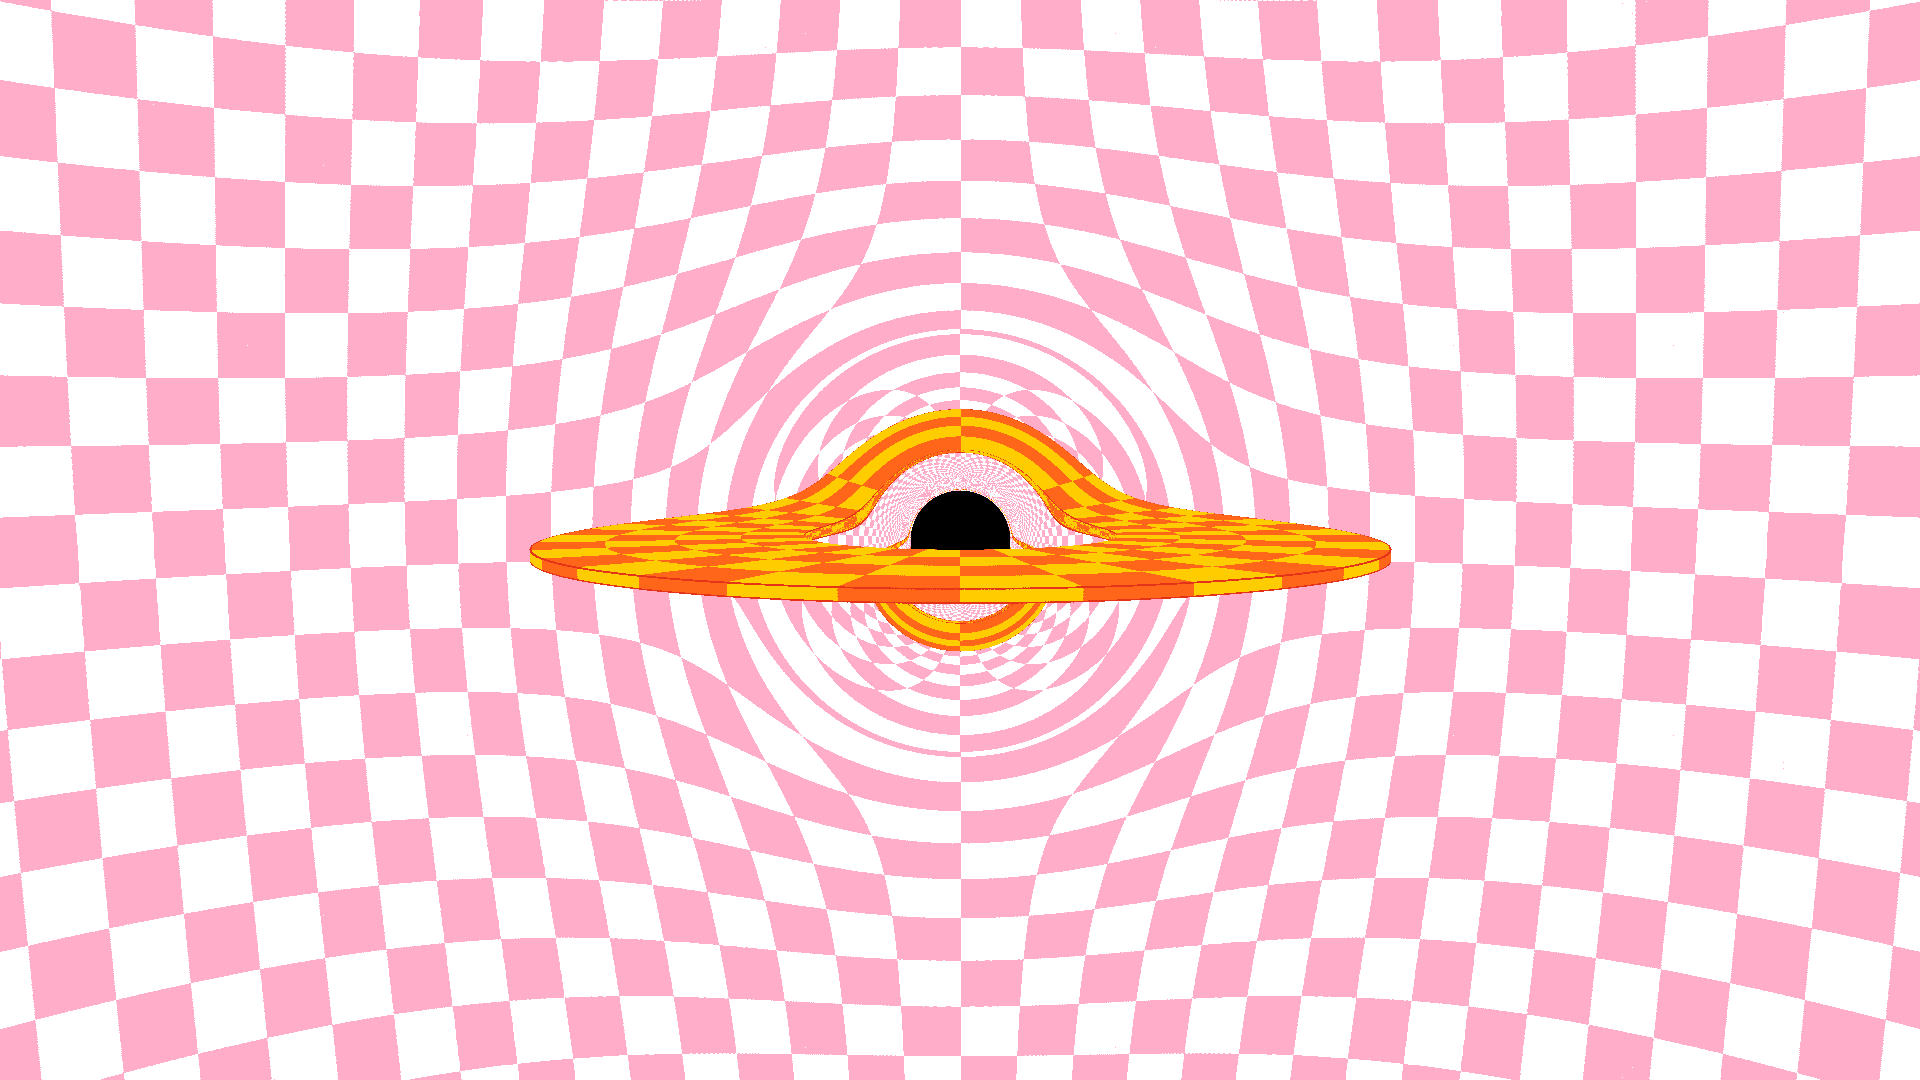
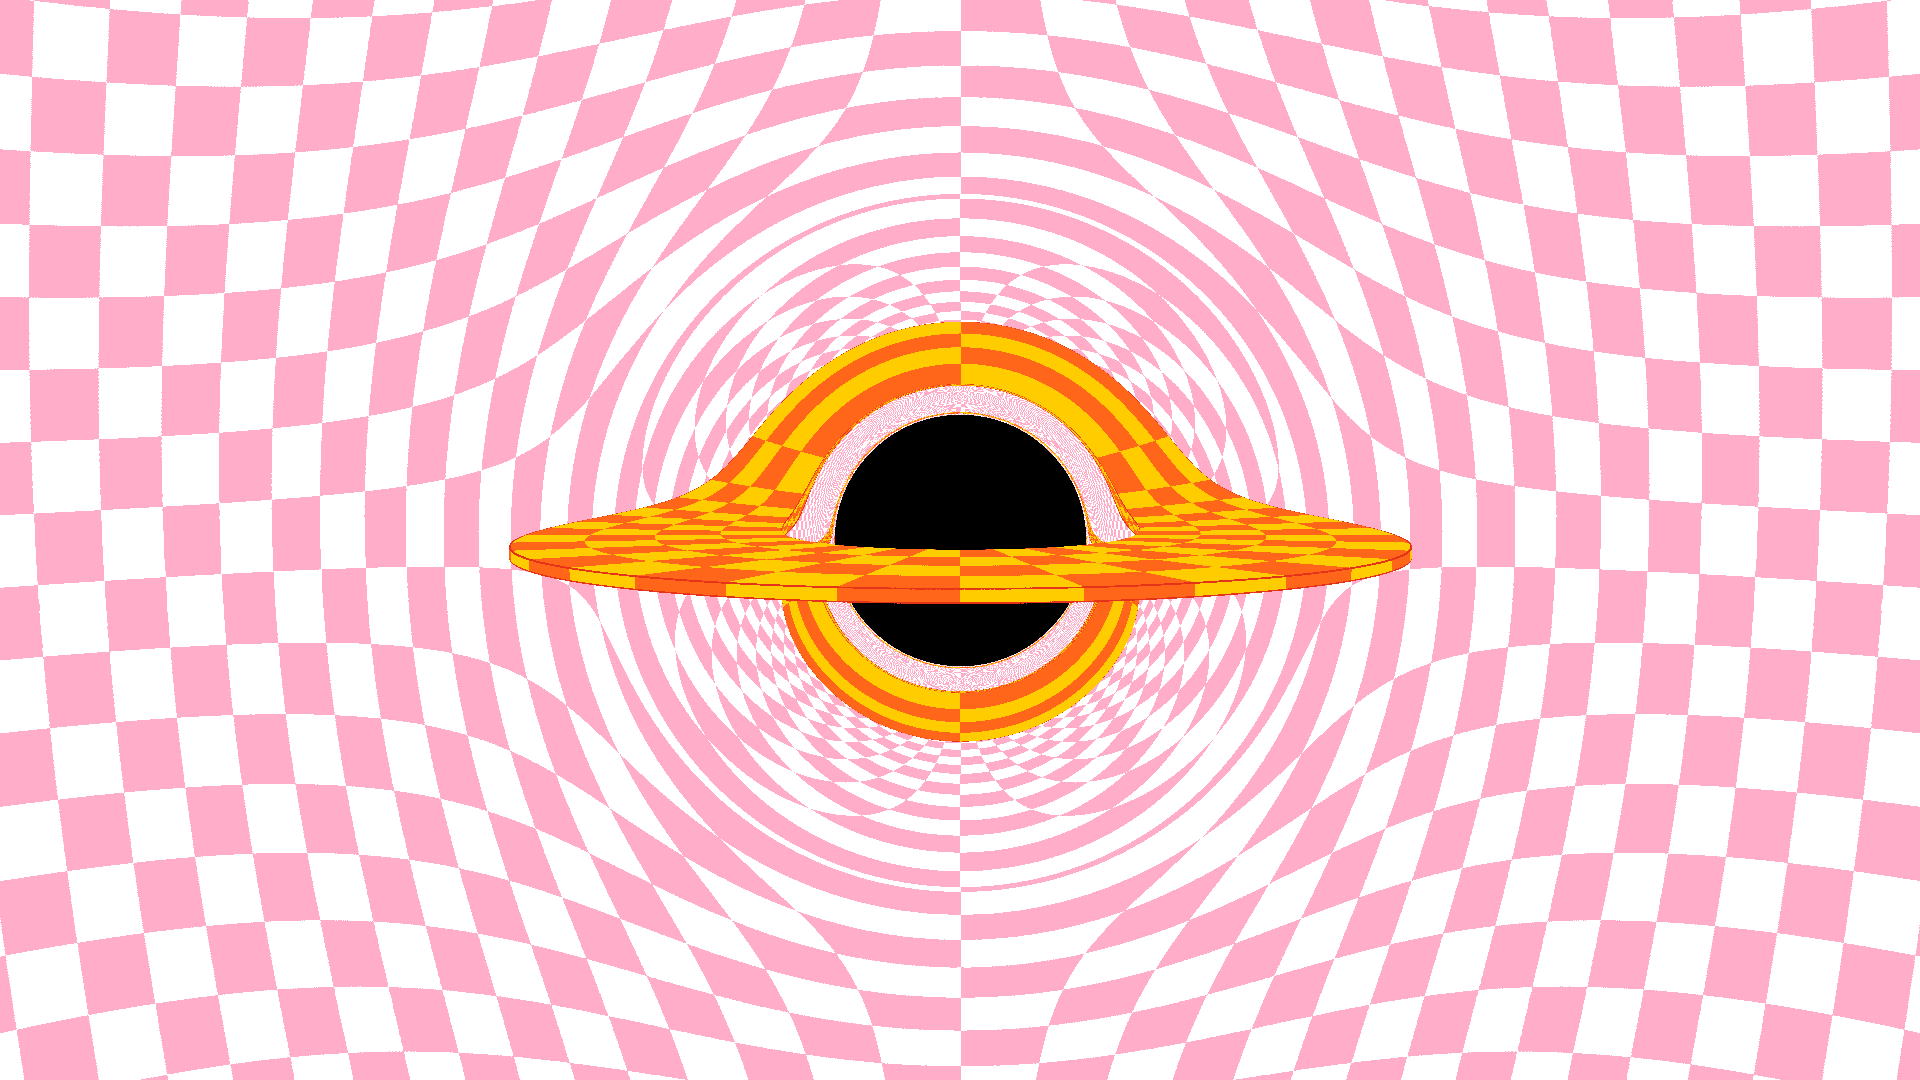
Finish project

diff --git a/bh_testing/scene.py b/bh_testing/scene.py
@@ -2,6 +2,7 @@
 This module contains the `Scene` class, which is used to store the information
 of a scene and render it.
 """
+from ast import Not
 from dataclasses import dataclass, field
 
 import moderngl
@@ -42,8 +43,8 @@ class Scene:
 
     def __post_init__(self):
         self.ctx = moderngl.create_context(standalone=True)
-        if self.space_time.is_schwartzchild():
-            compute_shader_source = get_shader("black_hole.glsl").read_text()
+        if self.space_time.is_schwarzschild():
+            compute_shader_source = get_shader("schwarzschild.glsl").read_text()
         elif self.space_time.is_kerr():
             compute_shader_source = get_shader("kerr.glsl").read_text()
         else:
@@ -90,7 +91,7 @@ class Scene:
             moderngl_texture.filter = (moderngl.NEAREST, moderngl.NEAREST)
         moderngl_texture.use(channel)
 
-    def set_schwartzchild_uniforms(self) -> None:
+    def set_schwarzschild_uniforms(self) -> None:
             self.set_uniform('show_disk', self.disk is not None) 
             self.load_texture(self.background_texture, 1)
 
@@ -122,18 +123,16 @@ class Scene:
 
         # Disk uniforms
         if (self.disk is not None):
-            self.set_uniform('disk_inner_radius', self.disk.inner_radius)
-            self.set_uniform('disk_outer_radius', self.disk.outer_radius)
-            self.set_uniform('disk_half_thickness', 0.5*self.disk.thickness)
-            self.load_texture(self.disk.texture, 2)
+            raise NotImplementedError("Kerr black holes with accretion disks are not yet supported.")
 
         # Black hole uniforms
         self.set_uniform('bh_radius', self.space_time.radius)
+        self.set_uniform('a', self.space_time.spin)
 
 
     def render(self) -> Image.Image:
-        if self.space_time.is_schwartzchild():
-            self.set_schwartzchild_uniforms()
+        if self.space_time.is_schwarzschild():
+            self.set_schwarzschild_uniforms()
 
         elif self.space_time.is_kerr():
             self.set_kerr_uniforms()
@@ -150,9 +149,9 @@ class Scene:
         # Run the compute shader
         self.compute_shader.run(1 + self.camera.resolution[0]//32, 1 + self.camera.resolution[1]//32)
 
+        pil_image = to_PIL_image(output_texture, self.camera.resolution)
+
         self.ctx.finish()
         self.ctx.release()
-
-        pil_image = to_PIL_image(output_texture, self.camera.resolution)
 
         return pil_image

diff --git a/bh_testing/main.py b/bh_testing/main.py
@@ -21,8 +21,9 @@ def main():
 
     img = scene.render()
     img.save("examples/front.png")
+    img.show()
 
-    # Image 2
+    #Image 2
     bh = SchwarzschildBlackHole(radius=5.0)
     disk = Disk(
         inner_radius=15.0,
@@ -62,25 +63,22 @@ def main():
     img = scene.render()
     img.save("examples/not_centered.png")
 
+
     # Image 4
-    bh = SchwarzschildBlackHole(radius=5.0)
-    disk = Disk(
-        inner_radius=15.0,
-        outer_radius=125.0,
-        thickness=1.0,
-        texture=ORANGE_DISK
-    )
-    camera = Camera.orbit(
-        resolution=[1920,1080],
-        angle_y=-3*DEGREES,
+    bh = KerrBlackHole(radius=2.0, spin=0.5)
+
+    camera = Camera(
+        resolution=[1024, 1024],
+        angle_y=0,
         angle_z=0,
-        focal_length=40,
-        camera_distance=6000
+        focal_length=1.5,
+        origin=[-30.0, 0.0, 0.0]
     )
-    scene = Scene(space_time=bh, disk=disk, camera=camera, background_texture=MULTICOLOR_BG)
+    scene = Scene(space_time=bh, disk=None, camera=camera, background_texture=LINES_BG)
 
     img = scene.render()
-    img.save("examples/fov.png")
+    img.save("examples/kerr.png")
+
 
 if __name__ == "__main__":
     main()

diff --git a/bh_testing/space_time.py b/bh_testing/space_time.py
@@ -23,13 +23,9 @@ class SpaceTime:
     """
     radius: float
     spin: float
-    hair: float
 
-    def is_schwartzchild(self) -> bool:
-        return self.spin == 0.0 and self.hair == 0.0
-    
-    def is_kerr(self) -> bool:
-        return self.hair == 0.0
+    def is_schwarzschild(self) -> bool:
+        return self.spin == 0.0
 
 
 @dataclass   
@@ -48,7 +44,12 @@ class SchwarzschildBlackHole(SpaceTime):
 
     def __post_init__(self):
         self.spin = 0.0
-        self.hair = 0.0
+
+    def is_schwarzschild(self) -> bool:
+        return True
+    
+    def is_kerr(self) -> bool:
+        return False
 
 
 
@@ -67,7 +68,9 @@ class KerrBlackHole(SpaceTime):
     """
     radius: float
     spin: float
-    hair: float = field(init=False)
 
-    def __post_init__(self):
-        self.hair = 0.0
+    def is_schwarzschild(self) -> bool:
+        return self.spin == 0.0
+    
+    def is_kerr(self) -> bool:
+        return self.spin != 0.0
